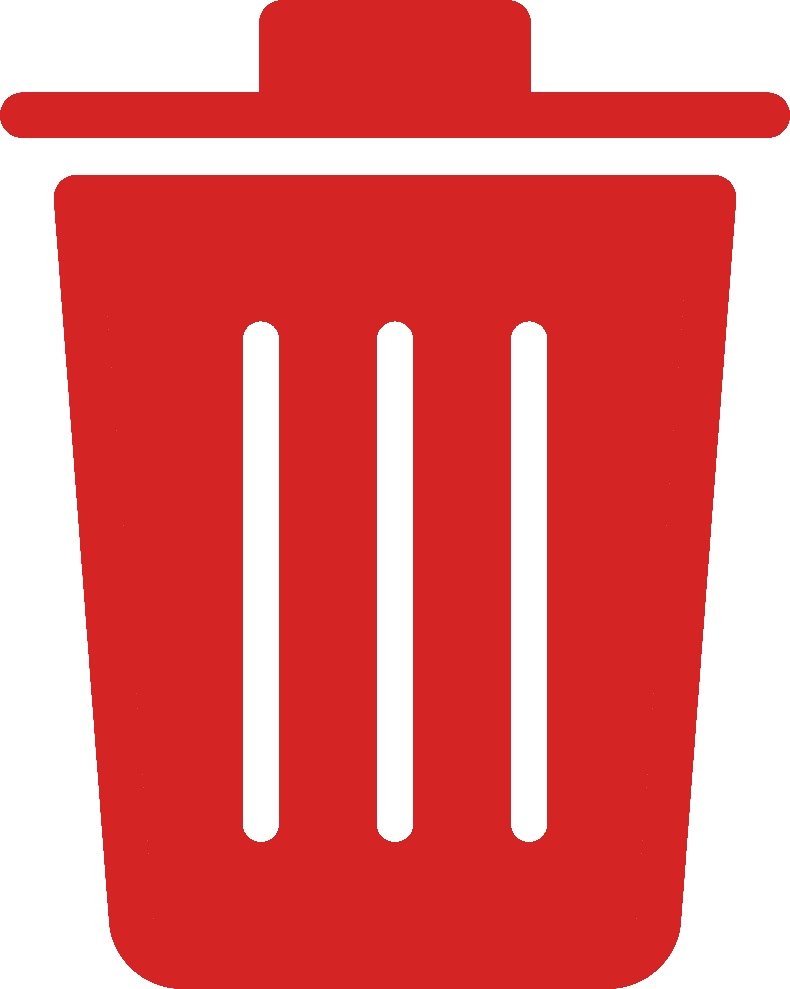
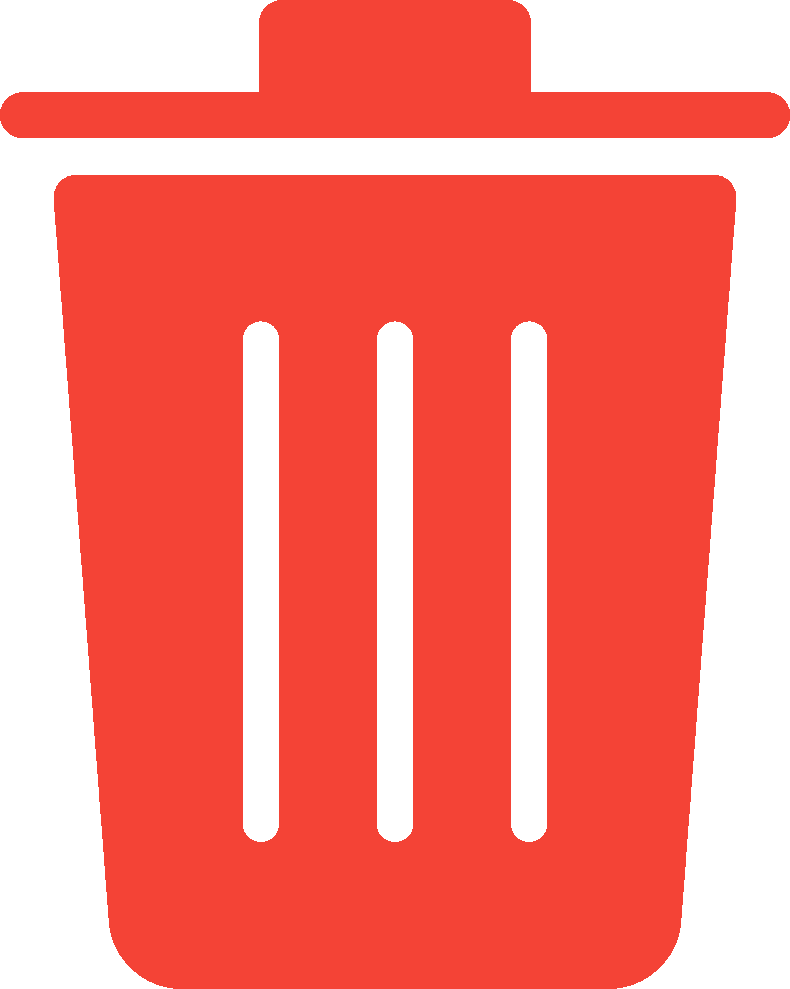
Updated bin graphics to color scheme.

diff --git a/components/Map.tsx b/components/Map.tsx
@@ -5,6 +5,7 @@ import { LatLngTuple } from "leaflet";
 import "leaflet/dist/leaflet.css";
 import 'leaflet.markercluster/dist/MarkerCluster.css';
 import 'leaflet.markercluster/dist/MarkerCluster.Default.css';
+import { MarkerClusterGroup } from 'leaflet.markercluster';
 
 interface Trashbin {
   lat: number;
@@ -34,7 +35,7 @@ const thresholds = [30, 70];
 
 const Map = ({ trashbinData, isRoutePlanning, onTrashbinClick, selectedBins, optimizedBins, showRoute }: MapProps) => {
   const mapRef = useRef<null | L.Map>(null);
-  const markersRef = useRef<null | L.MarkerClusterGroup>(null);
+  const markersRef = useRef<null | MarkerClusterGroup>(null);
   const routingControlRef = useRef<null | L.Routing.Control>(null);
 
   useEffect(() => {
@@ -54,10 +55,21 @@ const Map = ({ trashbinData, isRoutePlanning, onTrashbinClick, selectedBins, opt
           popupAnchor:  [0, -33/4], // point from which popup should open relative to iconAnchor
       }
     });
+    var BinIconSelected = L.Icon.extend({
+      options: {
+          iconSize:     [35, 35], // size of icon
+          popupAnchor:  [0, -35/4], // point from which popup should open relative to iconAnchor
+      }
+    });
     var greenBin = new BinIcon({iconUrl: '/images/leaflet/bin_g.png'}),
+        greenBinSelected = new BinIconSelected({iconUrl: '/images/leaflet/bin_g_b.png'}),
         yellowBin = new BinIcon({iconUrl: '/images/leaflet/bin_y.png'}),
+        yellowBinSelected = new BinIconSelected({iconUrl: '/images/leaflet/bin_y_b.png'}),
         redBin = new BinIcon({iconUrl: '/images/leaflet/bin_r.png'}),
-        blackBin = new BinIcon({iconUrl: '/images/leaflet/bin_b.png'});
+        redBinSelected = new BinIconSelected({iconUrl: '/images/leaflet/bin_r_b.png'});
+        // blueBin = new BinIcon({iconUrl: '/images/leaflet/bin_bl.png'}),
+        // blueBinSelected = new BinIconSelected({iconUrl: '/images/leaflet/bin_bl_b.png'}),
+        // blackBin = new BinIcon({iconUrl: '/images/leaflet/Trashbin_green_black.svg'}),
 
     if (!mapRef.current) {
       mapRef.current = window.L.map("map").setView(laerCoordinates, 16);
@@ -78,9 +90,14 @@ const Map = ({ trashbinData, isRoutePlanning, onTrashbinClick, selectedBins, opt
     trashbinData.forEach(trashbin => {
       var marker = window.L.marker(
         [trashbin.lat, trashbin.lng],
-        // The bin appears black, if it is selected, otherwise it is colored according to the fill level
-        {icon: (selectedBins && selectedBins.some((bin) => bin.id === trashbin.id)) ? blackBin : trashbin.fill < thresholds[0] ? greenBin : trashbin.fill < thresholds[1] ? yellowBin : redBin}
       );
+      // Set the color of the marker according to fill level and selection
+      if (selectedBins && selectedBins.some((bin) => bin.id === trashbin.id)) {
+        marker.setIcon(trashbin.fill < thresholds[0] ? greenBinSelected : trashbin.fill < thresholds[1] ? yellowBinSelected : redBinSelected);
+      } else {
+        marker.setIcon(trashbin.fill < thresholds[0] ? greenBin : trashbin.fill < thresholds[1] ? yellowBin : redBin);
+      }
+
       const popupContent = `<div id="popup-${trashbin.id}">${trashbin.display}<hr>Fill Level: ${trashbin.fill}%<br>Battery: ${trashbin.battery}%</div>`;
       marker.bindPopup(popupContent);
       marker.on("mouseover", () => {marker.openPopup();});
